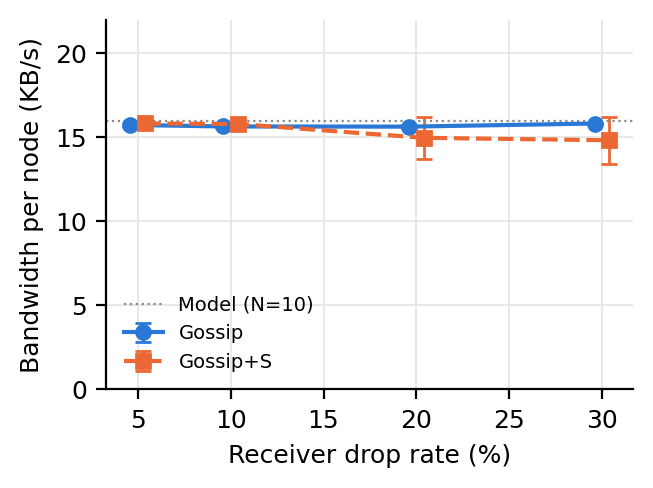
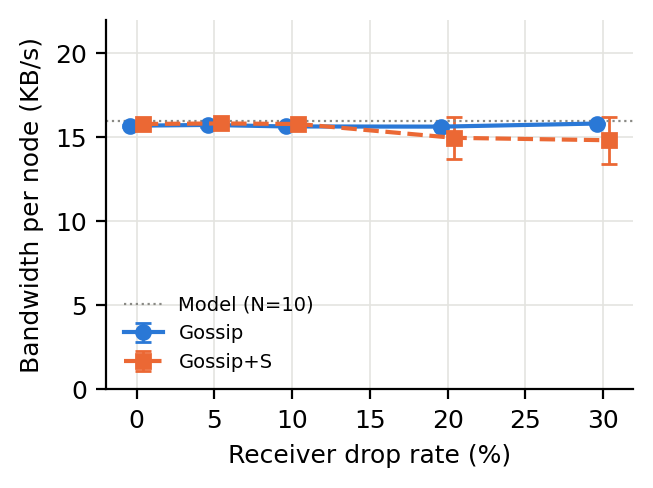
Add data summaries and fix zero-FP plotting
Append additional run summaries (bandwidth and false-positive sections, including droprate 0% and no-failure runs) to MP2/data.txt and remove stray interactive prompt lines. Update MP2/plots.py to remove the ZERO_FP_DROPS constant and initialize plotting points without assuming zero-FP placeholders. Refresh report images (bandwidth.png and false_positives.png) to match the updated data/plots output.

diff --git a/MP2/plots.py b/MP2/plots.py
@@ -60,10 +60,6 @@ def bandwidth_point(logs):
     return mean(samples), stdev(samples)
 
 
-# Drop rates whose no-failure runs logged no false positives in either mode, run without local logs
-ZERO_FP_DROPS = [0]
-
-
 # Reads the analyze.py summaries pasted into data.txt, since some runs have no local logs
 # Returns {mode: {drop: (per-VM B/s means, failures, window seconds)}}
 def summaries():
@@ -202,7 +198,7 @@ def main():
     fig, ax = plt.subplots()
     print("== false positives (group-wide [FAILURE] lines/s) ==")
     for mode in MODES:
-        pts = {d: (0.0, 0.0, "no false positives") for d in ZERO_FP_DROPS}
+        pts = {}
         # A run without logs can stand in only with zero failures, where every slice is exactly 0
         for d, (_, fails, secs) in summary[mode].items():
             if fails == 0:
